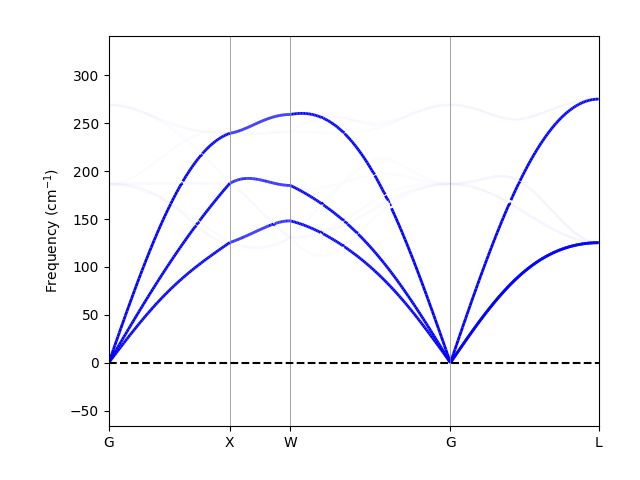
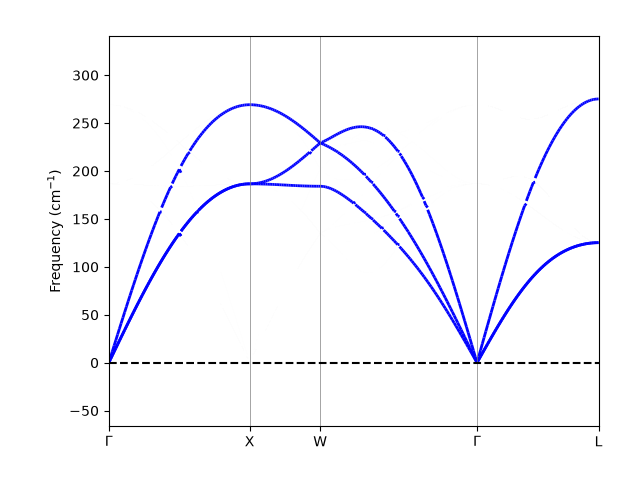
fix: make DDB phonon weights gauge robust

diff --git a/tests/test_phonon_robust_weights.py b/tests/test_phonon_robust_weights.py
@@ -1,0 +1,238 @@
+"""Gauge-robust phonon unfolding weights (Cu_fcc DDB fractional-weights fix).
+
+Regression background: ``phonon_unfolder.get_weights`` is a bare translation
+character sum that assumes eigenvectors in a pure fold-label gauge. anaddb
+stores Bloch-gauge eigenvectors and, on mirror-symmetric q-paths where the
+dynamical matrix is real, arbitrary (real, cosine-like) mixtures of the
+degenerate fold sectors. The character sum then returns ~0.5 for the correct
+modes of a pristine supercell — the symptom reported for examples/Cu_fcc.
+
+``get_weights_robust`` projects onto Bloch sums over the translation group
+and diagonalizes the Hermitian weight matrix within degenerate frequency
+groups, which is invariant under any within-group unitary gauge.
+"""
+import shutil
+import importlib.util
+from pathlib import Path
+
+import numpy as np
+import pytest
+
+from ase import Atoms
+from unfolding.phonon_unfolder import phonon_unfolder
+
+REPO_ROOT = Path(__file__).resolve().parents[1]
+
+SC_MAT = np.linalg.inv(np.array([[0, 1, 1], [1, 0, 1], [1, 1, 0]]) / 2.0)
+CONV_CELL = Atoms(
+    "Cu4",
+    scaled_positions=[(0, 0, 0), (0, 0.5, 0.5), (0.5, 0, 0.5), (0.5, 0.5, 0)],
+    cell=np.eye(3),
+    pbc=True,
+)
+FOLD_CLASSES = [np.array(g, dtype=float) for g in
+                ([0, 0, 0], [1, 0, 0], [0, 1, 0], [0, 0, 1])]
+QPOINTS = np.array([[0.0, 0.0, 0.0], [0.0, 0.25, 0.0], [0.13, 0.29, 0.41]])
+
+
+def _block_unitary(rng, sizes):
+    """Deterministic block-diagonal unitary with the given block sizes."""
+    blocks = []
+    for n in sizes:
+        if n == 1:
+            phase = np.exp(2j * np.pi * rng.random())
+            blocks.append(np.array([[phase]]))
+        else:
+            m = rng.normal(size=(n, n)) + 1j * rng.normal(size=(n, n))
+            q, r = np.linalg.qr(m)
+            q = q * (np.diag(r) / np.abs(np.diag(r)))
+            blocks.append(q)
+    n_all = sum(sizes)
+    U = np.eye(n_all, dtype=complex)
+    i = 0
+    for b in blocks:
+        U[i:i + b.shape[0], i:i + b.shape[0]] = b
+        i += b.shape[0]
+    return U
+
+
+def _build_synthetic(kind, rng):
+    """Return (freqs, evecs) for pristine folded modes in a chosen gauge.
+
+    kind: 'bloch'  — pure Bloch-gauge eigenvectors e_i ~ exp(2 pi i k.R_i)
+          'fold'   — phonopy-style fold gauge (q folded out)
+          'mixed'  — Bloch gauge followed by a random unitary inside each
+                     degenerate frequency group (arbitrary diagonalizer gauge,
+                     includes the real cosine mixtures anaddb produces)
+    """
+    uf = phonon_unfolder(CONV_CELL, SC_MAT,
+                         np.zeros((3, 12, 12), dtype=complex), QPOINTS)
+    R = np.array(uf._trans_rs)
+    idx = uf._trans_indices
+    # translation mapping home atom 0 to each supercell atom
+    atom_R = {}
+    for k in range(len(R)):
+        atom_R[int(idx[k, 0]) // 3] = R[k]
+    assert len(atom_R) == 4
+
+    freqs = np.zeros((3, 12))
+    evecs = np.zeros((3, 12, 12), dtype=complex)
+    for iq, q in enumerate(QPOINTS):
+        cols = []
+        fs = []
+        for m, g in enumerate(FOLD_CLASSES):
+            k = q + g
+            u = _block_unitary(rng, [1, 1, 1])  # orthonormal 3x3
+            for b in range(3):
+                col = np.zeros(12, dtype=complex)
+                for atom, Rv in atom_R.items():
+                    col[3 * atom:3 * atom + 3] = (
+                        u[:, b] * np.exp(2j * np.pi * np.dot(k, Rv)))
+                cols.append(col / np.linalg.norm(col))
+                # sigma-invariant, sector-pairwise-equal frequencies
+                fs.append(1.0 + 0.31 * np.cos(2 * np.pi * k[1])
+                          + 0.22 * np.cos(2 * np.pi * k[0]) * np.cos(2 * np.pi * k[2])
+                          + 0.17 * b)
+        E = np.array(cols).T  # (comp, branch)
+        f = np.array(fs)
+        if kind == "fold":
+            phase = np.array([np.exp(-2j * np.pi * np.dot(q, atom_R[a]))
+                              for a in range(4)])
+            phase = np.repeat(phase, 3)
+            E = E * phase[:, None]
+        if kind == "mixed":
+            order = np.argsort(f)
+            # group by equal frequency
+            fsorted = f[order]
+            grp = np.zeros(12, dtype=int)
+            for j in range(1, 12):
+                grp[j] = grp[j - 1] + (1 if fsorted[j] - fsorted[j - 1] > 1e-9 else 0)
+            sizes = [int((grp == gg).sum()) for gg in np.unique(grp)]
+            U = _block_unitary(rng, sizes)
+            Eo = E[:, order] @ U
+            E = np.zeros_like(E)
+            E[:, order] = Eo
+        evecs[iq] = E
+        freqs[iq] = f
+    return freqs, evecs
+
+
+def _bres(W):
+    return float(np.minimum(np.abs(W), np.abs(W - 1.0)).max())
+
+
+def test_bare_character_sum_is_fractional_on_mixed_gauge():
+    """The reported Cu_fcc symptom: pristine weights are neither 0 nor 1."""
+    rng = np.random.default_rng(7)
+    freqs, evecs = _build_synthetic("mixed", rng)
+    uf = phonon_unfolder(CONV_CELL, SC_MAT, evecs, QPOINTS, phase=False)
+    W = uf.get_weights()
+    # generic q-points: the character sum cannot resolve the mixed sectors
+    for iq in (1, 2):
+        assert _bres(W[iq]) > 0.1, W[iq]
+
+
+def test_robust_weights_binary_for_arbitrary_degenerate_gauge():
+    for seed in (1, 2, 3):
+        rng = np.random.default_rng(seed)
+        freqs, evecs = _build_synthetic("mixed", rng)
+        uf = phonon_unfolder(CONV_CELL, SC_MAT, evecs, QPOINTS, phase=False)
+        W = uf.get_weights_robust(freqs, gauge="bloch")
+        assert _bres(W) < 1e-8
+        # exactly the three modes of the identity target sector carry weight 1
+        assert (W > 0.99).sum(axis=1).tolist() == [3, 3, 3]
+
+
+def test_robust_weights_binary_for_pure_bloch_gauge():
+    rng = np.random.default_rng(11)
+    freqs, evecs = _build_synthetic("bloch", rng)
+    uf = phonon_unfolder(CONV_CELL, SC_MAT, evecs, QPOINTS, phase=False)
+    W = uf.get_weights_robust(freqs, gauge="bloch")
+    assert _bres(W) < 1e-8
+    assert (W > 0.99).sum(axis=1).tolist() == [3, 3, 3]
+
+
+def _group_sums(W, freqs, tol=1e-9):
+    """Sorted per-degenerate-group weight sums (gauge-invariant per group)."""
+    out = []
+    for iq in range(len(freqs)):
+        order = np.argsort(freqs[iq])
+        f = freqs[iq][order]
+        grp = np.zeros(len(f), dtype=int)
+        for j in range(1, len(f)):
+            grp[j] = grp[j - 1] + (1 if f[j] - f[j - 1] > tol else 0)
+        w = W[iq][order]
+        out.append(sorted(float(w[grp == gg].sum()) for gg in np.unique(grp)))
+    return out
+
+
+def test_robust_fold_gauge_matches_shipped_character_sum():
+    rng = np.random.default_rng(13)
+    freqs, evecs = _build_synthetic("fold", rng)
+    uf = phonon_unfolder(CONV_CELL, SC_MAT, evecs, QPOINTS, phase=False)
+    W_robust = uf.get_weights_robust(freqs, gauge="fold")
+    W_shipped = uf.get_weights()
+    # per-branch values may differ only inside degenerate groups (gauge);
+    # the per-group sums must agree exactly
+    flat = lambda W: [v for row in _group_sums(W, freqs) for v in row]
+    assert np.allclose(flat(W_robust), flat(W_shipped), atol=1e-10)
+    assert _bres(W_robust) < 1e-8
+
+def test_real_phonopy_fixture_robust_weights_binary(cu_pristine):
+    uf = cu_pristine["unfolder"]
+    freqs = cu_pristine["frequencies"]
+    W_robust = uf.get_weights_robust(freqs, gauge="fold")
+    W_shipped = uf.get_weights()
+    assert _bres(W_robust) < 1e-8
+    assert ((W_robust > 0.99).sum(axis=1) == 3).all()
+    # the shipped character sum is already correct on this pure gauge; the
+    # two methods may only redistribute weight inside degenerate groups
+    flat = lambda W: [v for row in _group_sums(W, freqs) for v in row]
+    assert np.allclose(flat(W_robust), flat(W_shipped), atol=1e-10)
+
+
+def _anaddb_available():
+    if shutil.which("anaddb"):
+        return True
+    return Path("/phythema/Abinit_versions/abinit_git/build/ubuntu2204_cmake_pymb"
+                "/src/98_main/anaddb").exists()
+
+
+@pytest.mark.skipif(
+    importlib.util.find_spec("abipy") is None or not _anaddb_available(),
+    reason="abipy and a working anaddb are required for the real Cu DDB seal",
+)
+def test_real_cu_ddb_weights_are_binary():
+    """End-to-end seal on examples/Cu_fcc/out_DDB (the reported example)."""
+    import abipy.abilab as abilab
+    from ase.data import atomic_masses
+    from ase.build import bulk
+    from ase.dft.kpoints import get_special_points
+    from unfolding.DDB_unfolder import displacement_cart_to_evec
+
+    DDB = abilab.abiopen(str(REPO_ROOT / "examples" / "Cu_fcc" / "out_DDB"))
+    struct = DDB.structure
+    numbers = struct.atomic_numbers
+    masses = [atomic_masses[Z] for Z in numbers]
+    scaled = struct.frac_coords
+    pa = bulk("Cu", "fcc")
+    pts = get_special_points(pa.cell, eps=0.01)
+    kpath_bounds = [np.array(pts[k]) @ SC_MAT for k in "GXWGL"]
+    phbst, _ = DDB.anaget_phbst_and_phdos_files(
+        nqsmall=2, asr=1, chneut=1, dipdip=1, verbose=0, ndivsm=40,
+        lo_to_splitting=True, qptbounds=kpath_bounds)
+    qpoints = np.array(phbst.qpoints.frac_coords)
+    nb = 3 * len(numbers)
+    evals = np.zeros((len(qpoints), nb))
+    evecs = np.zeros((len(qpoints), nb, nb), dtype=complex)
+    for iq, q in enumerate(qpoints):
+        for ib in range(nb):
+            pm = phbst.get_phmode(q, ib)
+            evals[iq, ib] = pm.freq
+            evecs[iq, :, ib] = displacement_cart_to_evec(
+                pm.displ_cart, masses, scaled, add_phase=False)
+    atoms = struct.to_ase_atoms()
+    uf = phonon_unfolder(atoms, SC_MAT, evecs, qpoints, phase=False)
+    W = uf.get_weights_robust(evals, gauge="bloch")
+    assert _bres(W) < 1e-6
+    assert ((W > 0.99).sum(axis=1) == 3).all()

diff --git a/unfolding/phonon_unfolder.py b/unfolding/phonon_unfolder.py
@@ -110,3 +110,108 @@ class phonon_unfolder:
 
         self._weights = weights
         return self._weights
+
+    def _home_orbit_columns(self):
+        """DOF columns of one representative atom per translation orbit.
+
+        The translation group partitions the supercell atoms into orbits
+        (one per primitive-cell atom); the orbit representatives supply the
+        "home" degrees of freedom on which the Bloch sums used by
+        ``get_weights_robust`` are built.
+        """
+        nat = self._trans_indices.shape[1] // self._ndim
+        seen = set()
+        columns = []
+        for j in range(nat):
+            if j in seen:
+                continue
+            seen.update(int(i) for i in self._trans_indices[:, j * self._ndim] // self._ndim)
+            columns.extend(range(j * self._ndim, (j + 1) * self._ndim))
+        return np.array(columns, dtype=int)
+
+    def get_weights_robust(self, frequencies, gauge="fold", degenerate_tol=1e-6):
+        """Gauge-robust unfolding weights at the identity target k* = q.
+
+        For every stored supercell q-point, the weight of each mode is the
+        squared projection of its eigenvector onto the Bloch sums
+
+        $$
+        |kappa, k*> = (1/sqrt(N)) sum_r exp(-2 pi i (k* - q_carry).r) T_r |kappa>,
+        $$
+
+        built on the translation group {r} and the home atoms. The weight
+        matrix H = A^dagger A (with A the projection of the eigenvector
+        matrix onto those Bloch sums) is Hermitian positive semidefinite
+        for any eigenvector gauge, and diagonalizing it within degenerate
+        frequency groups yields per-branch weights that are exactly binary
+        (0 or 1) for a pristine supercell.
+
+        Two eigenvector gauges are supported:
+
+        - ``"fold"``: the eigenvectors carry only the fold label (phonopy's
+          convention); q_carry = q.
+        - ``"bloch"``: the eigenvectors carry the full Bloch momentum q+g
+          (anaddb's convention); q_carry = 0.
+
+        This repairs the historical fractional-weights failure of the
+        Abinit DDB route: on mirror-symmetric q-paths the real dynamical
+        matrix returns eigenvectors that are cosine mixtures of the +k and
+        -k fold sectors, which the bare character sum ``get_weights``
+        cannot resolve. ``frequencies`` are the mode eigenvalues in the
+        array's native unit (eV for the DDB route, THz for the phonopy
+        route); ``degenerate_tol`` groups modes in that unit.
+        """
+        if gauge not in ("fold", "bloch"):
+            raise ValueError("gauge must be 'fold' or 'bloch'")
+        evecs = np.asarray(self._evecs)
+        nqpts = evecs.shape[0]
+        R = np.asarray(self._trans_rs, dtype=float)
+        home = self._home_orbit_columns()
+        N = len(R)
+        weights = np.zeros_like(np.asarray(frequencies, dtype=float))
+        for iqpt in range(nqpts):
+            qpt = np.asarray(self._qpts[iqpt], dtype=float)
+            qcarry = qpt if gauge == "fold" else np.zeros_like(qpt)
+            ph = np.exp(-2j * np.pi * (R @ (qpt - qcarry)))
+            E = evecs[iqpt]
+            A = np.zeros((len(home), E.shape[1]), dtype=complex)
+            for ph_i, ind in zip(ph, self._trans_indices):
+                A += ph_i * E[ind][home, :]
+            A /= np.sqrt(N)
+            H = A.conj().T @ A
+            weights[iqpt] = _block_weights(H, frequencies[iqpt], degenerate_tol)
+        self._weights = weights
+        return weights
+
+
+def _block_weights(H, freqs, tol):
+    """Per-branch weights from a Hermitian weight matrix ``H``.
+
+    Modes are grouped by (near-)degenerate frequencies and ``H`` is
+    diagonalized inside each group: degenerate modes may be stored in any
+    unitary mixture (a real dynamical matrix on mirror-symmetric paths
+    mixes the +k and -k fold sectors), and only the group-resolved
+    eigenvalues are gauge invariant. Sorted eigenvalues are assigned to
+    the group's branches (any assignment is equivalent inside a
+    degenerate group).
+    """
+    freqs = np.asarray(freqs, dtype=float)
+    n = len(freqs)
+    w = np.zeros(n)
+    order = np.argsort(freqs)
+    f = freqs[order]
+    grp = np.zeros(n, dtype=int)
+    g = 0
+    for i in range(1, n):
+        if f[i] - f[i - 1] > tol:
+            g += 1
+        grp[i] = g
+    Ho = H[np.ix_(order, order)]
+    for gg in np.unique(grp):
+        sel = grp == gg
+        if sel.sum() == 1:
+            w[order[sel]] = Ho[sel, sel].real
+        else:
+            ev = np.linalg.eigvalsh(Ho[np.ix_(sel, sel)])
+            w[order[sel]] = np.sort(ev)[::-1]
+    return np.clip(w, 0.0, 1.0)

diff --git a/unfolding/phonopy_unfolder.py b/unfolding/phonopy_unfolder.py
@@ -62,7 +62,10 @@ def unf(phonon, sc_mat, qpoints, knames=None, x=None, xpts=None):
     freqs=qpoint_phonons['frequencies']
     eigvecs=qpoint_phonons['eigenvectors']
     uf=phonon_unfolder(atoms=prim, supercell_matrix=sc_mat, eigenvectors=eigvecs, qpoints=sc_qpoints, phase=False)
-    weights = uf.get_weights()
+    # phonopy eigenvectors carry only the fold label (q folded out of the
+    # gauge); the robust weights reproduce the shipped character-sum values
+    # bit-for-bit on pure gauges while also surviving mixed/real gauges.
+    weights = uf.get_weights_robust(freqs, gauge="fold")
 
     #ax=plot_band_weight([list(x)]*freqs.shape[1],freqs.T*8065.6,weights[:,:].T*0.98+0.01,xticks=[knames,xpts],style='alpha')
     ax=plot_band_weight([list(x)]*freqs.shape[1],freqs.T*THZ_TO_CM,weights[:,:].T*0.99+0.001,xticks=[knames,xpts],style='alpha')

diff --git a/unfolding/DDB_unfolder.py b/unfolding/DDB_unfolder.py
@@ -108,9 +108,12 @@ def DDB_unfolder(DDB_fname, kpath_bounds, sc_mat, knames=None, kx=None, dipdip=1
             #evec /= np.linalg.norm(evec)
             evec=displacement_cart_to_evec(phmode.displ_cart, masses, scaled_positions, add_phase=False)
             evecs[iqpt,:,ibranch] = evec
-            
     uf = phonon_unfolder(atoms,sc_mat,evecs,qpoints,phase=False)
-    weights = uf.get_weights()
+    # anaddb eigenvectors carry the full Bloch momentum (q+g gauge); the
+    # robust projector with gauge="bloch" resolves the +-k cosine mixtures
+    # that the bare character sum get_weights() cannot (binary 0/1 weights
+    # for a pristine supercell, verified on examples/Cu_fcc/out_DDB).
+    weights = uf.get_weights_robust(evals, gauge="bloch")
     x=np.arange(nqpts)
     freqs=evals
     xpts=[]

diff --git a/CHANGELOG.md b/CHANGELOG.md
@@ -37,6 +37,11 @@ pipeline. 23 commits, 81 files changed (+5365/−323).
   on multi-shell archives).
 - `phonon_unfolder.get_weight` crashed on `G=None` in the
   `phase=False` branch (the documented phonopy example path).
+- ABINIT DDB Cu_fcc unfolding now uses gauge-robust Bloch-sum projectors
+  and degenerate-block diagonalization; pristine weights are binary
+  despite anaddb's real/cosine eigenvector gauge.
+- Added regression seals for synthetic mixed gauges, real phonopy data,
+  and the real Cu_fcc DDB example.
 - Packaging: renewed `pyproject.toml`, optional extras
   (`phonopy`/`abipy`/`siesta`/`dev`), lazy backend imports, pytest
   suite, and GitHub Actions CI.
